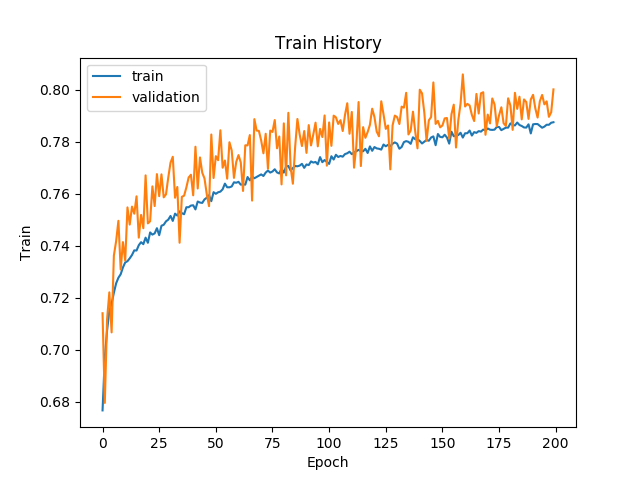
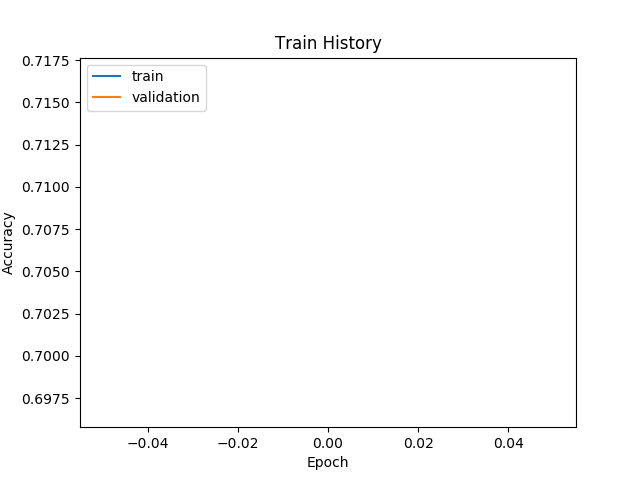
Add a function to plot history training accuracy

diff --git a/src/data_mining/save_data.py b/src/data_mining/save_data.py
@@ -20,10 +20,10 @@ import importlib
 config = conf.train_test_config('Read_Collection_train_c1', 'Read_Collection_test_c1')
 fext = feature_extraction_rahul.feature_extraction()
 
-train, label_train = fext.generator(config.train, time_step=15)
-test, label_test = fext.generator(config.test, time_step=15)
+train, label_train = fext.generator(config.train, time_step=15, special_list='SS_Subval')
+test, label_test = fext.generator(config.test, time_step=15, special_list='SS_Subval')
 
-with open('../../data/raw_data_w_time.pkl', 'wb') as output:
+with open('../../data/raw_data_w_time_sub.pkl', 'wb') as output:
     pickle.dump(train, output, pickle.HIGHEST_PROTOCOL)
     pickle.dump(label_train, output, pickle.HIGHEST_PROTOCOL)
     pickle.dump(test, output, pickle.HIGHEST_PROTOCOL)
@@ -33,10 +33,10 @@ with open('../../data/raw_data_w_time.pkl', 'wb') as output:
 # feature extraction without time
 fext = feature_extraction.feature_extraction()
 
-train, label_train = fext.generator(config.train, time_step=15)
-test, label_test = fext.generator(config.test, time_step=15)
+train, label_train = fext.generator(config.train, time_step=15, special_list='SS_Subval')
+test, label_test = fext.generator(config.test, time_step=15, special_list='SS_Subval')
 
-with open('../../data/raw_data_wo_time.pkl', 'wb') as output:
+with open('../../data/raw_data_wo_time_sub.pkl', 'wb') as output:
     pickle.dump(train, output, pickle.HIGHEST_PROTOCOL)
     pickle.dump(label_train, output, pickle.HIGHEST_PROTOCOL)
     pickle.dump(test, output, pickle.HIGHEST_PROTOCOL)

diff --git a/src/utility/io.py b/src/utility/io.py
@@ -13,3 +13,15 @@ def c_save_image(plot_func, *argw, filename='test.png',silent = silence):
         fig = plt.figure(figsize=(6, 6))
         plot_func(*argw)
         fig.savefig(filename, dpi=fig.dpi)
+
+
+def show_train_history(train_history):
+
+    plt.plot(train_history.history['acc'])
+    plt.plot(train_history.history['val_acc'])
+
+    plt.title('Train History')
+    plt.ylabel('Accuracy')
+    plt.xlabel('Epoch')
+    plt.legend(['train', 'validation'], loc='upper left')
+    plt.savefig('../analysis_result_rahul/train_history.png')
